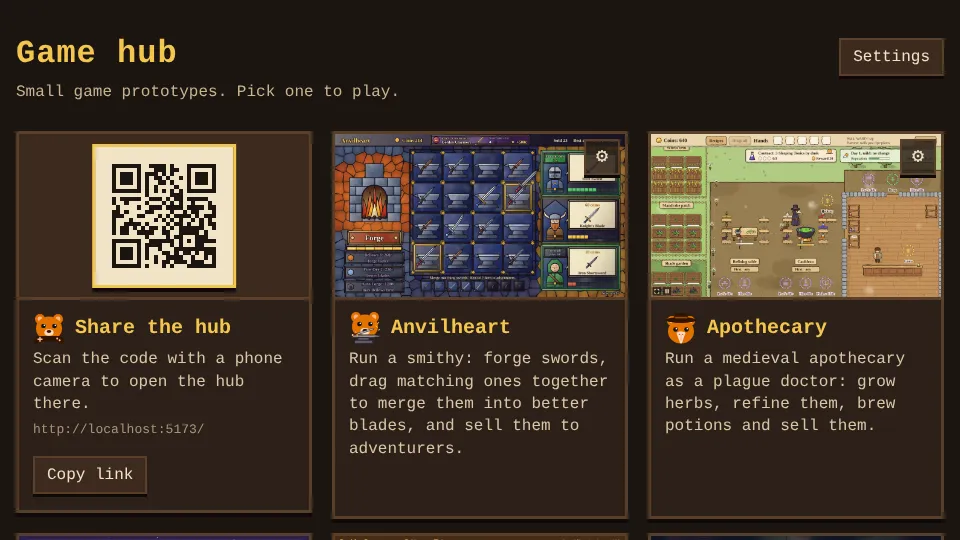
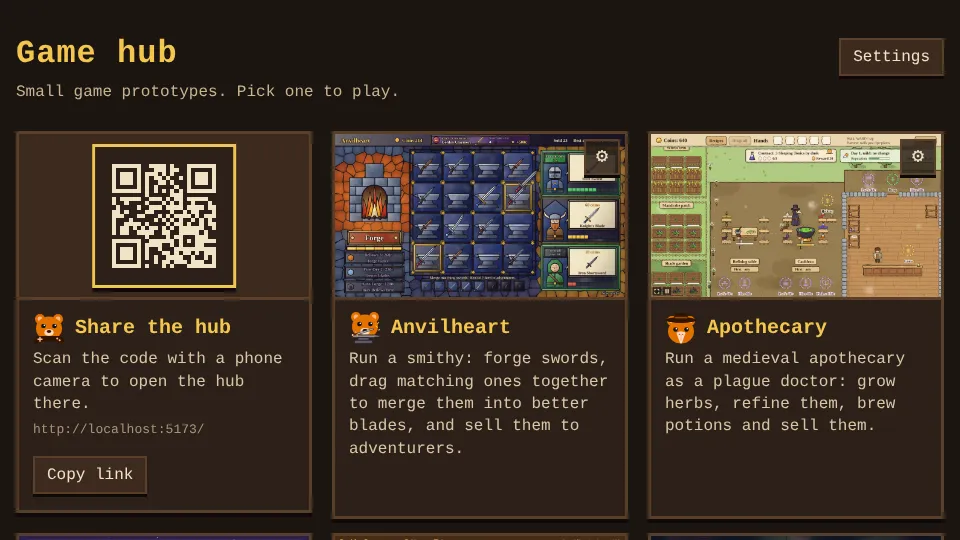
Hub: QR code in cream on brown
The share card's QR code now shows cream modules on the cards' brown,
as asked, instead of dark brown on cream.

Created with Opus 5.5 (low)

Changed region(s): [[0.0938, 0.2667, 0.25, 0.5333]]

diff --git a/index.html b/index.html
@@ -64,8 +64,8 @@
       .settings-actions { display: flex; gap: 8px; padding-top: 14px; border-top: 2px solid #3d2b1f; }
       .settings-actions > * { flex: 1 1 0; min-width: 0; }
       #reset-progress, #reset-game { color: #f0b48a; }
-      /* The first card shares the hub: its QR code sits where a game's cover would, in the page's dark
-         brown on its cream text colour, with its quiet zone, as scanners expect. */
+      /* The first card shares the hub: its QR code sits where a game's cover would, in the page's cream
+         text colour on the cards' brown, with its quiet zone. */
       .share-card { display: flex; flex-direction: column; background: #2c2018; border: 3px solid #5a3f2a; box-shadow: 0 4px 0 #0e0a08; }
       .share-card .qr-frame { position: relative; aspect-ratio: 16 / 9; background: #3d2b1f; border-bottom: 3px solid #5a3f2a; }
       .share-card .qr { position: absolute; top: 6%; bottom: 6%; left: 50%; aspect-ratio: 1; transform: translateX(-50%);
@@ -434,7 +434,7 @@
       // Share: the hub's address as it is loaded (without a query, a hash or index.html), so the code
       // points to wherever the hub is hosted.
       const hubLink = `${location.origin}${location.pathname.replace(/index\.html$/, '')}`;
-      shareCard.querySelector('.qr').innerHTML = qrSvg(hubLink, { dark: '#1b1410', light: '#f1e3c6' });
+      shareCard.querySelector('.qr').innerHTML = qrSvg(hubLink, { dark: '#f1e3c6', light: '#2c2018' });
       shareCard.querySelector('.share-link').textContent = hubLink;
       const copyButton = document.getElementById('copy-link');
       copyButton.addEventListener('click', async () => {

diff --git a/shared/qr.ts b/shared/qr.ts
@@ -250,8 +250,8 @@ export function qrCode(text: string, mask?: number): boolean[][] {
 
 /**
  * The QR code for `text` as an SVG image with the standard 4-module margin, `dark` modules on a
- * `light` background (black on white by default). Keep the two far apart in brightness, dark on
- * light, so every scanner reads it.
+ * `light` background (black on white by default). Keep the two far apart in brightness; light
+ * modules on a dark background also work in today's phone cameras.
  */
 export function qrSvg(text: string, { dark = '#000', light = '#fff' } = {}): string {
   const m = qrCode(text);
